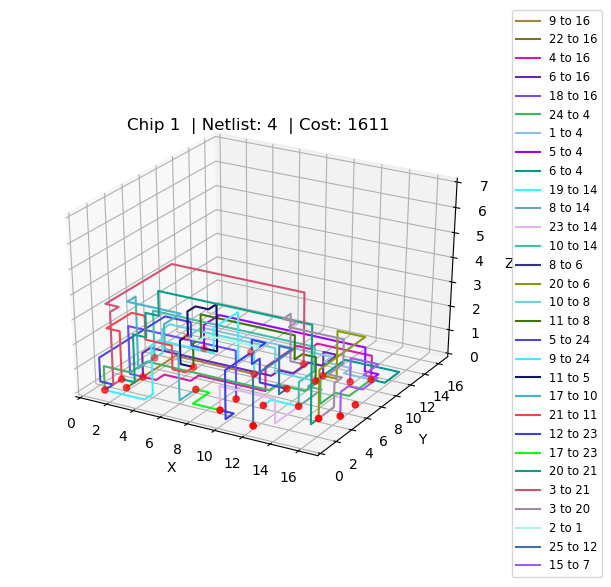
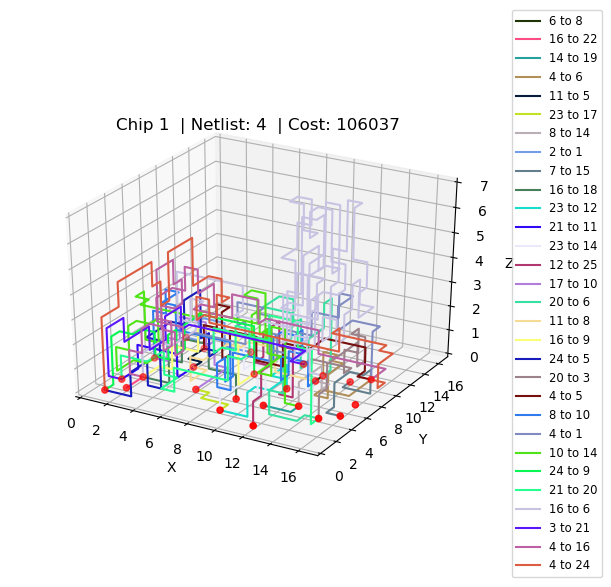
main werkend

diff --git a/main.py b/main.py
@@ -42,6 +42,7 @@ if int(algorithm) == 1:
     rs.random_solve3D(test_grid)
     
     # Print results and plot graph  
+    cost = test_grid.cost_of_route()
     print(f"De totale kost is: {cost}")
     pg.plot_grid(test_grid, chip_number, netlist_number, cost, "Random")
 
@@ -53,7 +54,8 @@ elif int(algorithm) == 2:
         greedy = gr.LengthGreedy(test_grid)
         reset = greedy.run()
     
-    # Print results and plot graph  
+    # Print results and plot graph
+    cost = test_grid.cost_of_route()  
     print(f"De totale kost is: {cost}")
     pg.plot_grid(test_grid, chip_number, netlist_number, cost, "Greedy")
 
@@ -69,6 +71,7 @@ elif int(algorithm) == 3:
             test_grid = grid.Grid(f"data/chip_{chip_number}/print_{chip_number}.csv", f"data/chip_{chip_number}/netlist_{netlist_number}.csv", size)
             astar = ast.PopAstar(test_grid)
             reset = astar.run()
+        cost = test_grid.cost_of_route()
     
     # Perform with simulated annealing
     if annealing == "1":

diff --git a/code/function/plot_grid.py b/code/function/plot_grid.py
@@ -1,6 +1,7 @@
 import matplotlib.pyplot as plt
 import random
 from code.classes import grid
+from matplotlib.font_manager import FontProperties
 import time
 import os
 
